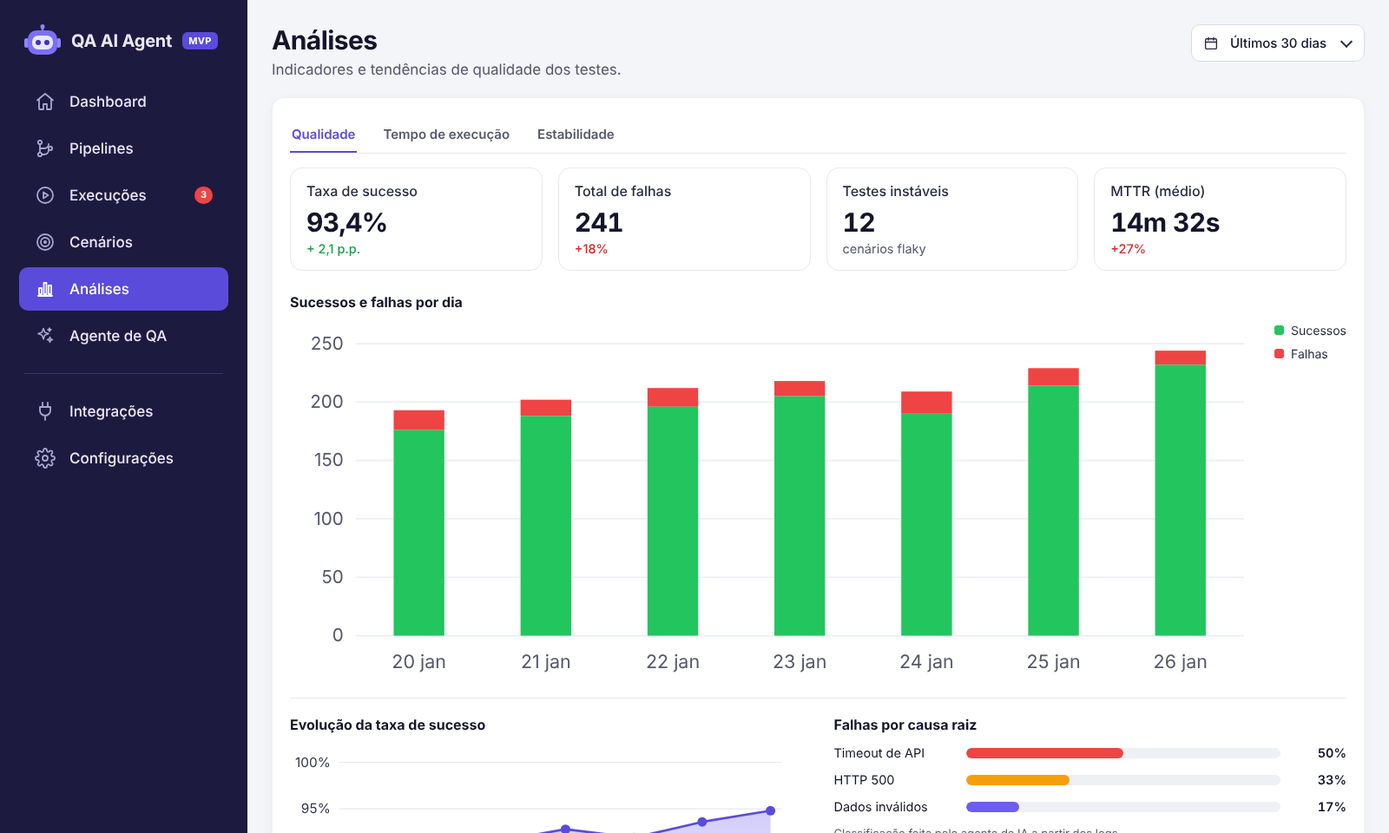
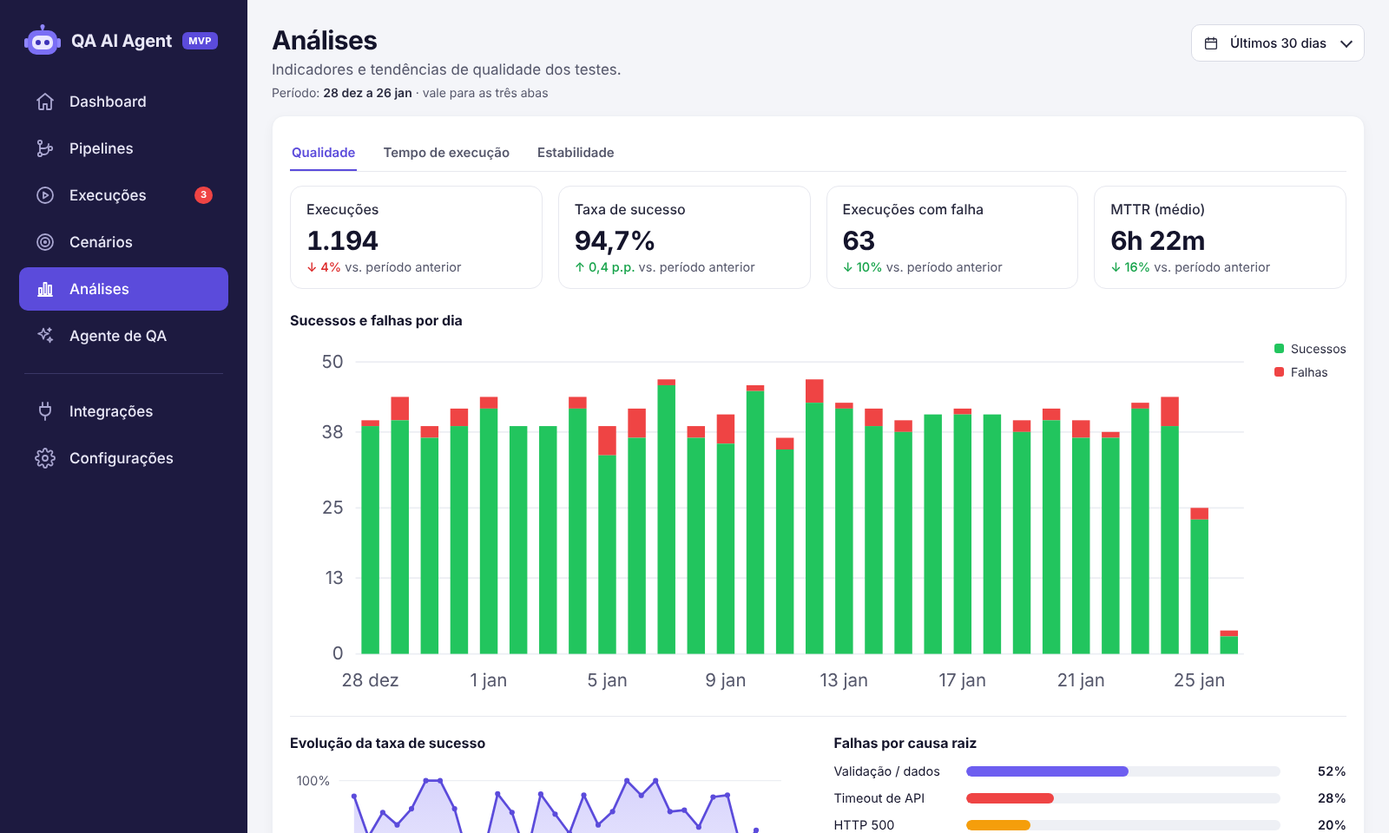
Filtro de período funcional em Análises (calculado das execuções) e Dashboard fixo em 7 dias
- Análises recalcula Qualidade, Tempo e Estabilidade pelo período (7/15/30/90 dias) e compara com o período anterior
- Dashboard calculado dos últimos 7 dias, sem filtro próprio
- Histórico de exemplo de 6 meses; paginação compacta em Execuções

Claude-Session: https://claude.ai/code/session_01M8xYCGHtLhHzJiE5R54dVi

diff --git a/index.html b/index.html
@@ -167,6 +167,10 @@ a{color:var(--primary);font-weight:600;text-decoration:none}a:hover{text-decorat
 .jst.ok{color:var(--fg-2);font-weight:500}.jst.wip{color:#b4540a}.jst.off{color:var(--muted)}
 #v-pipelines .pill.pass,#v-cenarios .pill.pass,#v-execucoes .pill.pass,#v-detalhe td .pill.pass{background:none;padding-left:0;color:var(--green-ink);font-weight:500}
 #v-pipelines .pill.pass::before,#v-cenarios .pill.pass::before,#v-execucoes .pill.pass::before,#v-detalhe td .pill.pass::before{content:"";display:inline-block;width:7px;height:7px;border-radius:50%;background:var(--green-2);margin-right:7px;vertical-align:1px}
+.period-note{display:inline-flex;align-items:center;gap:8px;font-size:15px;font-weight:500;color:var(--muted);padding:10px 4px;text-decoration:none}
+.period-note:hover{color:var(--primary);text-decoration:none}
+.a-range{margin:0 0 18px;color:var(--muted);font-size:14px}.a-range b{color:var(--fg-2);font-weight:600}
+.pager .gap{align-self:center;color:var(--muted);padding:0 2px}
 .chart{width:100%;height:auto;display:block}
 .donut-wrap{display:flex;align-items:center;gap:22px;padding-top:12px;flex-wrap:wrap}
 .donut-wrap svg{flex:none}
@@ -507,10 +511,7 @@ tr.is-live td{background:var(--primary-softer)}
       <header class="ph">
         <div><h1>Olá, QA! 👋</h1><p>Acompanhe a qualidade das suas pipelines e obtenha análises com o agente de IA.</p></div>
         <div class="top-actions">
-          <div class="sel cal big">
-            <svg class="ico-cal" width="20" height="20" viewBox="0 0 24 24" fill="none" stroke="#2a2b3f" stroke-width="1.8" stroke-linecap="round"><rect x="3.5" y="5" width="17" height="15.5" rx="2"/><path d="M3.5 10h17M8 3v4M16 3v4"/></svg>
-            <select id="period" aria-label="Período"><option value="7">Últimos 7 dias</option><option value="30">Últimos 30 dias</option><option value="90">Últimos 90 dias</option></select>
-          </div>
+          <a class="period-note" href="#analises" title="Para outros períodos, use Análises"><svg width="16" height="16" viewBox="0 0 24 24" fill="none" stroke="currentColor" stroke-width="1.8" stroke-linecap="round" aria-hidden="true"><rect x="3.5" y="5" width="17" height="15.5" rx="2"/><path d="M3.5 10h17M8 3v4M16 3v4"/></svg>Últimos 7 dias</a>
           <button class="avatar" aria-label="Perfil" data-toast="Perfil: QA"><svg width="26" height="26" viewBox="0 0 24 24" fill="none" stroke="#2a2b3f" stroke-width="1.8"><circle cx="12" cy="8" r="4"/><path d="M4 21c1-4 4.5-6 8-6s7 2 8 6"/></svg></button>
         </div>
       </header>
@@ -603,8 +604,9 @@ tr.is-live td{background:var(--primary-softer)}
 
     <!-- 6. ANÁLISES -->
     <section class="view" id="v-analises" hidden>
-      <header class="ph"><div><h1>Análises</h1><p>Indicadores e tendências de qualidade dos testes.</p></div>
-        <div class="sel cal"><svg class="ico-cal" width="18" height="18" viewBox="0 0 24 24" fill="none" stroke="#2a2b3f" stroke-width="1.8" stroke-linecap="round"><rect x="3.5" y="5" width="17" height="15.5" rx="2"/><path d="M3.5 10h17M8 3v4M16 3v4"/></svg><select id="aPeriod" aria-label="Período"><option value="7">Últimos 7 dias</option><option value="30" selected>Últimos 30 dias</option><option value="90">Últimos 90 dias</option></select></div></header>
+      <header class="ph" style="margin-bottom:8px"><div><h1>Análises</h1><p>Indicadores e tendências de qualidade dos testes.</p></div>
+        <div class="sel cal"><svg class="ico-cal" width="18" height="18" viewBox="0 0 24 24" fill="none" stroke="#2a2b3f" stroke-width="1.8" stroke-linecap="round"><rect x="3.5" y="5" width="17" height="15.5" rx="2"/><path d="M3.5 10h17M8 3v4M16 3v4"/></svg><select id="aPeriod" aria-label="Período"><option value="7">Últimos 7 dias</option><option value="15">Últimos 15 dias</option><option value="30" selected>Últimos 30 dias</option><option value="90">Últimos 90 dias</option></select></div></header>
+      <p class="a-range">Período: <b id="aRange"></b> · vale para as três abas</p>
       <div class="card card-pad">
         <div class="tabs" id="aTabs"><button data-t="geral" class="on">Qualidade</button><button data-t="tempo">Tempo de execução</button><button data-t="estab">Estabilidade</button></div>
         <div id="aBody"></div>
@@ -736,8 +738,15 @@ let RUNS=[
  {id:10428,p:'Checkout',s:'Falha',ok:11,t:15,d:542,at:new Date(2026,0,25,18,20)},
 ];
 (function gen(){let seed=7,rnd=()=>(seed=(seed*16807)%2147483647)/2147483647;let at=new Date(2026,0,25,17,40);
-  for(let id=10427;id>=10383;id--){const p=PIPES[Math.floor(rnd()*PIPES.length)];const fail=rnd()*100>p.rate+ (p.name==='Checkout'?-4:0);const t=p.scen;const ok=fail?t-1-Math.floor(rnd()*3):t;
-    RUNS.push({id,p:p.name,s:fail?'Falha':'Sucesso',ok,t,d:Math.round(p.dur*(.9+rnd()*.25)),at:new Date(at)});at=new Date(at-((40+rnd()*260)*60000));}})();
+  const stop=new Date(BASE.getTime()-184*864e5);
+  for(let id=10427;at>stop;id--){
+    const p=PIPES[Math.floor(rnd()*PIPES.length)],age=(BASE-at)/864e5,h=at.getHours(),wd=at.getDay()%6!==0;
+    const bias=(p.name==='Checkout'?4:0)+age/180*4+(wd&&h>=10&&h<=12?5:0);
+    const fail=rnd()*100>p.rate-bias;const t=p.scen;const ok=fail?t-1-Math.floor(rnd()*3):t;
+    RUNS.push({id,p:p.name,s:fail?'Falha':'Sucesso',ok,t,d:Math.round(p.dur*(.9+rnd()*.25)),at:new Date(at)});
+    at=new Date(at-((6+rnd()*30)*60000));
+    if(at.getHours()<7){at.setDate(at.getDate()-1);at.setHours(21,Math.floor(rnd()*50),0,0)}
+  }})();
 const grpOf=n=>(PIPES.find(p=>p.name===n)||{group:'—'}).group;
 
 let SCENS=store.get('scens',null)||[
@@ -783,29 +792,41 @@ function runRow(r){
   <td><button class="btn-out" data-go="exec-${r.id}">Ver detalhes</button></td></tr>`;
 }
 const pill=s=>`<span class="pill ${s==='Falha'?'fail':s==='Executando'?'run':['Inativo','Pendente','Cancelada'].includes(s)?'off':'pass'}">${s==='Executando'?'<span class="live-dot"></span> ':''}${s}</span>`;
+function dashData(){
+  const runs=runsIn(7),prev=runsIn(7,1),n=runs.length,ok=runs.filter(r=>r.s==='Sucesso').length,fail=n-ok;
+  const avg=n?runs.reduce((a,r)=>a+r.d,0)/n:0,pavg=prev.length?prev.reduce((a,r)=>a+r.d,0)/prev.length:null;
+  const byP={};runs.filter(r=>r.s==='Falha').forEach(r=>byP[r.p]=(byP[r.p]||0)+1);
+  const top=Object.entries(byP).sort((a,b)=>b[1]-a[1]),main=top.slice(0,3),rest=top.slice(3).reduce((a,x)=>a+x[1],0);
+  const names=main.map(x=>x[0]).concat(rest?['Outros']:[]),counts=main.map(x=>x[1]).concat(rest?[rest]:[]);
+  const split=counts.map(c=>fail?Math.round(c/fail*100):0);
+  const bs=buckets(runs,7);let last=100;const vals=bs.map(b=>b.rate===null?last:(last=Math.max(80,+b.rate.toFixed(1))));
+  return {exec:n.toLocaleString('pt-BR'),execDh:deltaHtml(n,prev.length||null,'%',false),succ:ok.toLocaleString('pt-BR'),rate:(n?ok/n*100:0).toFixed(1).replace('.',','),
+    fail:fail.toLocaleString('pt-BR'),failR:(n?fail/n*100:0).toFixed(1).replace('.',','),dur:fmtDur(Math.round(avg)),durDh:deltaHtml(avg,pavg,'%',true),
+    labels:bs.map(b=>b.label),vals,names,counts,split};
+}
 function renderDashboard(){
-  const P=PERIODS[period];
+  const P=dashData();
   $('#kpis').innerHTML=`
-  <div class="card kpi"><div class="kpi-h">${svg('<circle cx="12" cy="12" r="9.5"/><path d="M10 8.3v7.4l5.8-3.7z"/>',28,'#2a2b3f',1.6)}Execuções</div><div class="kpi-v">${P.exec}</div><div class="kpi-s"><span class="ok">↑ ${P.execD}</span> vs. período anterior</div></div>
+  <div class="card kpi"><div class="kpi-h">${svg('<circle cx="12" cy="12" r="9.5"/><path d="M10 8.3v7.4l5.8-3.7z"/>',28,'#2a2b3f',1.6)}Execuções</div><div class="kpi-v">${P.exec}</div><div class="kpi-s">${P.execDh}</div></div>
   <div class="card kpi"><div class="kpi-h">${svg('<circle cx="12" cy="12" r="9.5"/><path d="m7.5 12.3 3 3 6-6.3"/>',28,'#16a34a')}Sucessos</div><div class="kpi-v">${P.succ}</div><div class="kpi-s ok">${P.rate}% de sucesso</div></div>
   <div class="card kpi"><div class="kpi-h">${svg('<circle cx="12" cy="12" r="9.5"/><path d="m8.5 8.5 7 7m0-7-7 7"/>',28,'#dc2626')}Falhas</div><div class="kpi-v">${P.fail}</div><div class="kpi-s bad">${P.failR}% de falhas</div></div>
-  <div class="card kpi"><div class="kpi-h">${svg('<circle cx="12" cy="13.5" r="8"/><path d="M12 9.5v4.2l2.6 1.6M9.5 2.5h5M12 2.5v3M19 6l1.3-1.3"/>',28,'#2a2b3f',1.7)}Duração média<span class="kpi-tag">por plataforma</span></div>${durByTech()}<div class="kt-foot" title="Média de todas as execuções do período, sem separar plataforma">Geral do período <b>${P.dur}</b><span class="ok">↓ ${P.durD}</span></div></div>`;
+  <div class="card kpi"><div class="kpi-h">${svg('<circle cx="12" cy="13.5" r="8"/><path d="M12 9.5v4.2l2.6 1.6M9.5 2.5h5M12 2.5v3M19 6l1.3-1.3"/>',28,'#2a2b3f',1.7)}Duração média<span class="kpi-tag">por plataforma</span></div>${durByTech()}<div class="kt-foot" title="Média de todas as execuções do período, sem separar plataforma">Geral do período <b>${P.dur}</b><span>${P.durDh}</span></div></div>`;
   drawLine('#lineChart',P.labels,P.vals);
-  const cols=['#6d5ef0','#3b82f6','#f59e0b','#22c55e'],names=['Checkout','Pagamento','Cadastro','Outros'];
-  const total=parseInt(String(P.fail).replace(/\./g,''),10)||0,counts=P.split.map(v=>Math.round(v/100*total));
+  const cols=['#6d5ef0','#3b82f6','#f59e0b','#22c55e'],names=P.names,counts=P.counts;
   const R=68,C=2*Math.PI*R,GAP=3,cx=84;let off=0,s='';
   P.split.forEach((v,i)=>{const len=Math.max(0,v/100*C-GAP);s+=`<circle class="seg" data-i="${i}" cx="${cx}" cy="${cx}" r="${R}" fill="none" stroke="${cols[i]}" stroke-width="18" stroke-dasharray="${len} ${C-len}" stroke-dashoffset="${-off}" transform="rotate(-90 ${cx} ${cx})"><title>${names[i]}: ${counts[i]} falhas (${v}%)</title></circle>`;off+=v/100*C;});
   s+=`<text x="${cx}" y="${cx+4}" text-anchor="middle" font-size="34" font-weight="700" fill="#14142b" style="font-variant-numeric:tabular-nums">${P.fail}</text><text x="${cx}" y="${cx+26}" text-anchor="middle" font-size="14" fill="#55576b">falhas</text>`;
   $('#donut').innerHTML=s;
-  const mx=Math.max(...P.split);
+  const mx=Math.max(1,...P.split);
   $('#legend').innerHTML=P.split.map((v,i)=>`<li><button data-ask="${names[i]}" data-i="${i}" title="Analisar ${names[i]} com a IA"><span class="dot" style="background:${cols[i]}"></span><span class="nm">${names[i]}</span><span class="ct">${counts[i]}</span><span class="pct">${v}%</span><span class="lg-bar"><i style="width:${v/mx*100}%;background:${cols[i]}"></i></span></button></li>`).join('');
   $('#fpTotal').textContent=`${P.failR}% das execuções`;
-  $('#fpNote').innerHTML=`<b>${names[0]}</b> concentra ${P.split[0]}% das falhas (${counts[0]} de ${P.fail}).`;
+  $('#fpNote').innerHTML=names.length?`<b>${esc(names[0])}</b> concentra ${P.split[0]}% das falhas (${counts[0]} de ${P.fail}).`:'Nenhuma falha nos últimos 7 dias.';
+  $('.fp-foot [data-ask]')?.setAttribute('data-ask',names[0]||'Checkout');
   $('#lastRuns').innerHTML=RUNS.filter(r=>r.s!=='Executando').slice(0,4).map(runRow).join('');
 }
 function durByTech(){
   // Média própria de cada plataforma: soma das durações das execuções concluídas dela ÷ nº de execuções dela (no período do filtro)
-  const lim=new Date(BASE-(+period)*864e5);
+  const [lim]=periodRange(+period);
   const rows=TECHS.map(t=>{const names=PIPES.filter(p=>p.tech===t).map(p=>p.name);
     const runs=RUNS.filter(r=>names.includes(r.p)&&(r.s==='Sucesso'||r.s==='Falha')&&r.at>=lim);
     const sum=runs.reduce((a,r)=>a+r.d,0);return {t,n:runs.length,sum,v:runs.length?Math.round(sum/runs.length):0}}).filter(r=>r.n);
@@ -823,7 +844,7 @@ function drawLine(sel,labels,vals){
 }
 $('#legend').addEventListener('mouseover',e=>{const b=e.target.closest('[data-i]');if(!b)return;const d=$('#donut');d.classList.add('hl');d.querySelectorAll('.seg').forEach(c=>c.classList.toggle('on',c.dataset.i===b.dataset.i))});
 $('#legend').addEventListener('mouseleave',()=>$('#donut').classList.remove('hl'));
-$('#period').addEventListener('change',e=>{period=e.target.value;renderDashboard()});
+
 
 /* ---------- 2. Pipelines ---------- */
 function fillSelect(sel,first,opts){const el=$(sel),v=el.value;el.innerHTML=`<option value="">${first}</option>`+opts.map(o=>`<option>${esc(o)}</option>`).join('');el.value=opts.includes(v)?v:''}
@@ -876,12 +897,13 @@ let page=1;const PER=10;
 function renderExecs(){
   fillSelect('#ePipe','Todas as pipelines',PIPES.map(p=>p.name));
   const q=$('#eSearch').value.toLowerCase().replace('#',''),pp=$('#ePipe').value,st=$('#eStatus').value,days=+$('#eDays').value;
-  const lim=new Date(BASE-days*864e5);
+  const [lim]=periodRange(days||1);
   const list=RUNS.filter(r=>(String(r.id).includes(q)||r.p.toLowerCase().includes(q))&&(!pp||r.p===pp)&&(!st||r.s===st)&&(!days||r.at>=lim));
   const pages=Math.max(1,Math.ceil(list.length/PER));page=Math.min(page,pages);
   $('#execRows').innerHTML=list.slice((page-1)*PER,page*PER).map(r=>`<tr class="click" data-go="exec-${r.id}"><td><a href="#exec-${r.id}">#${r.id}</a></td><td>${esc(r.p)}</td><td>${pill(r.s)}</td><td>${r.ok} / ${r.t}</td><td>${r.s==='Executando'?'—':fmtDur(r.d)}</td><td>${r.s==='Executando'?'agora':fmtDate(r.at)}</td></tr>`).join('')||'<tr><td colspan="6" class="empty">Nenhuma execução encontrada.</td></tr>';
   let pg=`<button data-page="${page-1}" ${page===1?'disabled':''} aria-label="Página anterior">‹</button>`;
-  for(let i=1;i<=pages;i++)pg+=`<button data-page="${i}" class="${i===page?'on':''}">${i}</button>`;
+  const want=[...new Set([1,page-1,page,page+1,pages])].filter(i=>i>=1&&i<=pages).sort((a,b)=>a-b);let prev=0;
+  want.forEach(i=>{if(i-prev>1)pg+='<span class="gap">…</span>';pg+=`<button data-page="${i}" class="${i===page?'on':''}">${i}</button>`;prev=i});
   $('#pager').innerHTML=pg+`<button data-page="${page+1}" ${page===pages?'disabled':''} aria-label="Próxima página">›</button>`;
 }
 ['#eSearch','#ePipe','#eStatus','#eDays'].forEach(s=>$(s).addEventListener('input',()=>{page=1;renderExecs()}));
@@ -987,46 +1009,101 @@ $('#v-cenarios').addEventListener('click',e=>{if(e.target.id!=='jiraEdit')return
 
 /* ---------- 6. Análises ---------- */
 let aTab='geral';
+/* Métricas de Análises calculadas a partir das execuções do período escolhido */
+const DAY=864e5;
+function periodRange(days,back=0){const e0=new Date(BASE.getFullYear(),BASE.getMonth(),BASE.getDate()+1),end=new Date(e0-back*days*DAY),start=new Date(end-days*DAY);return [start,end]}
+function runsIn(days,back=0){const [a,b]=periodRange(days,back);return RUNS.filter(r=>(r.s==='Sucesso'||r.s==='Falha')&&r.at>=a&&r.at<b)}
+function failCause(n){if(/Timeout/.test(n))return 'Timeout de API';if(/Confirmar|500/.test(n))return 'HTTP 500';let h=0;for(const c of n)h=(h*31+c.charCodeAt(0))>>>0;return ['Timeout de API','HTTP 500','Validação / dados','Validação / dados'][h%4]}
+function scenarioStats(runs){
+  const m=new Map();
+  runs.forEach(r=>suiteFor(r).forEach(x=>{const k=r.p+'|'+x.n;const o=m.get(k)||{p:r.p,n:x.n,runs:0,fails:0};o.runs++;if(x.f)o.fails++;m.set(k,o)}));
+  return [...m.values()];
+}
+function mttr(runs){
+  // tempo médio entre uma execução com falha e a próxima execução com sucesso do mesmo componente
+  const asc=[...runs].sort((a,b)=>a.at-b.at),open={},gaps=[];
+  asc.forEach(r=>{if(r.s==='Falha'){if(!open[r.p])open[r.p]=r.at}else if(open[r.p]){gaps.push((r.at-open[r.p])/1000);delete open[r.p]}});
+  return gaps.length?gaps.reduce((a,b)=>a+b,0)/gaps.length:0;
+}
+function metrics(runs){
+  const ok=runs.filter(r=>r.s==='Sucesso').length,fail=runs.length-ok;
+  const sc=scenarioStats(runs),flaky=sc.filter(x=>x.fails>0&&x.fails<x.runs);
+  return {n:runs.length,ok,fail,rate:runs.length?ok/runs.length*100:0,flaky,sc,mttr:mttr(runs)};
+}
+const fmtLong=s=>{s=Math.round(s);const d=Math.floor(s/86400),h=Math.floor(s%86400/3600),m=Math.floor(s%3600/60);return d?`${d}d ${h}h`:h?`${h}h ${String(m).padStart(2,'0')}m`:fmtDur(s)};
+function buckets(runs,days){
+  // 7 e 30 dias: um ponto por dia · 90 dias: um ponto por semana
+  const step=days>30?7:1,n=Math.ceil(days/step),[start,end]=periodRange(days),out=[];
+  for(let i=0;i<n;i++){const b=new Date(end.getTime()-(n-1-i)*step*DAY),a=new Date(Math.max(start,b.getTime()-step*DAY));
+    const rs=runs.filter(r=>r.at>=a&&r.at<b),ok=rs.filter(r=>r.s==='Sucesso').length;
+    out.push({label:`${a.getDate()} ${['jan','fev','mar','abr','mai','jun','jul','ago','set','out','nov','dez'][a.getMonth()]}`,ok,ko:rs.length-ok,rate:rs.length?ok/rs.length*100:null});}
+  return out;
+}
+function barChart(bs){
+  const l=44,r=640,t=14,b=210,mx=Math.max(4,...bs.map(x=>x.ok+x.ko)),u=mx>200?100:mx>80?50:mx>20?10:4,max=Math.ceil(mx/u)*u,y=v=>b-v/max*(b-t),step=(r-l)/bs.length,bw=Math.max(4,Math.min(34,step*.6));
+  const every=Math.ceil(bs.length/8);let g='';
+  [0,.25,.5,.75,1].forEach(f=>{const v=Math.round(max*f);g+=`<line x1="${l}" x2="${r}" y1="${y(v)}" y2="${y(v)}" stroke="#eceef3"/><text x="${l-8}" y="${y(v)+4}" text-anchor="end" font-size="12" fill="#55576b">${v}</text>`});
+  bs.forEach((x,i)=>{const cx=l+step*i+(step-bw)/2;
+    g+=`<rect x="${cx}" y="${y(x.ok+x.ko)}" width="${bw}" height="${y(x.ok)-y(x.ok+x.ko)}" fill="#ef4444"><title>${x.label}: ${x.ko} falhas</title></rect><rect x="${cx}" y="${y(x.ok)}" width="${bw}" height="${b-y(x.ok)}" fill="#22c55e"><title>${x.label}: ${x.ok} sucessos</title></rect>`;
+    if(i%every===0)g+=`<text x="${cx+bw/2}" y="${b+22}" text-anchor="middle" font-size="12" fill="#55576b">${x.label}</text>`});
+  return g;
+}
+function lineChart(sel,bs){
+  const pts=bs.filter(x=>x.rate!==null);if(!pts.length){$(sel).innerHTML='';return}
+  const lo=Math.max(0,Math.floor(Math.min(...pts.map(x=>x.rate))/5)*5-5);
+  const l=46,r=460,t=16,b=190,x=i=>l+14+i*((r-l-24)/Math.max(1,bs.length-1)),y=v=>b-(v-lo)/(100-lo)*(b-t),every=Math.ceil(bs.length/7);
+  let g=`<defs><linearGradient id="lgA" x1="0" y1="0" x2="0" y2="1"><stop offset="0" stop-color="#7b6ff5" stop-opacity=".3"/><stop offset="1" stop-color="#7b6ff5" stop-opacity=".04"/></linearGradient></defs>`;
+  for(let v=lo;v<=100;v+=Math.max(5,Math.round((100-lo)/4/5)*5))g+=`<line x1="${l}" x2="${r}" y1="${y(v)}" y2="${y(v)}" stroke="#eceef3"/><text x="${l-8}" y="${y(v)+4}" text-anchor="end" font-size="12" fill="#55576b">${v}%</text>`;
+  const P=bs.map((d,i)=>d.rate===null?null:[x(i),y(d.rate),d]).filter(Boolean),path=P.map((p,i)=>(i?'L':'M')+p[0].toFixed(1)+','+p[1].toFixed(1)).join(' ');
+  g+=`<path d="${path} L${P.at(-1)[0]},${b} L${P[0][0]},${b} Z" fill="url(#lgA)"/><path d="${path}" fill="none" stroke="#5b4bdb" stroke-width="2.2" stroke-linejoin="round"/>`;
+  P.forEach(p=>{g+=`<circle cx="${p[0]}" cy="${p[1]}" r="${bs.length>14?2.5:4}" fill="#5b4bdb"><title>${p[2].label}: ${pct(p[2].rate)}</title></circle>`});
+  bs.forEach((d,i)=>{if(i%every===0)g+=`<text x="${x(i)}" y="${b+24}" text-anchor="middle" font-size="12" fill="#55576b">${d.label}</text>`});
+  $(sel).innerHTML=g;
+}
+const deltaHtml=(cur,prev,unit,goodDown)=>{if(prev===null||prev===undefined||!isFinite(prev))return '<span class="muted">sem período anterior</span>';const d=cur-prev;if(Math.abs(d)<1e-9)return '<span class="muted">igual ao período anterior</span>';
+  const up=d>0,good=goodDown?!up:up;return `<span class="${good?'ok':'bad'}">${up?'↑':'↓'} ${unit==='pp'?Math.abs(d).toFixed(1).replace('.',',')+' p.p.':unit==='%'?Math.abs(Math.round(prev?d/prev*100:0))+'%':Math.abs(Math.round(d))}</span> vs. período anterior`};
+
 function renderAnalises(){
   if(!['geral','tempo','estab'].includes(aTab))aTab='geral';
-  const A=AN[$('#aPeriod').value],labels=PERIODS[7].labels;
   $$('#aTabs button').forEach(b=>b.classList.toggle('on',b.dataset.t===aTab));
+  const days=+$('#aPeriod').value,label=$('#aPeriod').selectedOptions[0].textContent.toLowerCase();
+  $('#aRange').textContent=(()=>{const [a,b]=periodRange(days);return `${fmtDate(a).split(',')[0]} a ${fmtDate(new Date(b-1)).split(',')[0]}`})();
   if(aTab==='tempo')return renderTempo();
-  const kpis=`<div class="kpis k4" style="margin-bottom:22px">
-   <div class="card kpi"><div class="kpi-h">Taxa de sucesso</div><div class="kpi-v">${A.rate}</div><div class="kpi-s ok">+ ${A.rateD.replace('+','')}</div></div>
-   <div class="card kpi"><div class="kpi-h">Total de falhas</div><div class="kpi-v">${A.fails}</div><div class="kpi-s ${A.failsD.startsWith('+')?'bad':'ok'}">${A.failsD}</div></div>
-   <div class="card kpi"><div class="kpi-h">Testes instáveis</div><div class="kpi-v">${A.flaky}</div><div class="kpi-s">cenários flaky</div></div>
-   <div class="card kpi"><div class="kpi-h">MTTR (médio)</div><div class="kpi-v">${A.mttr}</div><div class="kpi-s ${A.mttrD.startsWith('+')?'bad':'ok'}">${A.mttrD}</div></div></div>`;
+  const runs=runsIn(days),M=metrics(runs),prevRuns=runsIn(days,1),PM=prevRuns.length?metrics(prevRuns):null;
   if(aTab==='geral'){
-    // Qualidade: o que aconteceu no período
-    const l=44,r=640,t=14,b=210,max=250,y=v=>b-v/max*(b-t),bw=34,step=(r-l)/7;
-    let g='';[0,50,100,150,200,250].forEach(v=>{g+=`<line x1="${l}" x2="${r}" y1="${y(v)}" y2="${y(v)}" stroke="#eceef3"/><text x="${l-8}" y="${y(v)+4}" text-anchor="end" font-size="12" fill="#55576b">${v}</text>`});
-    A.ok.forEach((v,i)=>{const x=l+step*i+(step-bw)/2,k=A.ko[i];
-      g+=`<rect x="${x}" y="${y(v+k)}" width="${bw}" height="${y(v)-y(v+k)}" fill="#ef4444"><title>${labels[i]}: ${k} falhas</title></rect><rect x="${x}" y="${y(v)}" width="${bw}" height="${b-y(v)}" fill="#22c55e"><title>${labels[i]}: ${v} sucessos</title></rect><text x="${x+bw/2}" y="${b+22}" text-anchor="middle" font-size="12.5" fill="#55576b">${labels[i]}</text>`});
-    const days=['Seg','Ter','Qua','Qui','Sex','Sáb','Dom'],hours=[8,9,10,11,12,13,14,15,16,17,18,19,20];
-    const heat=days.map((d,di)=>hours.map(h=>{const peak=Math.max(0,6-Math.abs(h-11)*2.2);const base=di>4?0.3:1;return Math.max(0,Math.round((peak+((di*7+h*3)%4)*.6)*base))}));
-    const hmax=Math.max(...heat.flat()),cell=v=>v===0?'#f1f2f6':`rgba(220,38,38,${(.15+.85*v/hmax).toFixed(2)})`;
-    $('#aBody').innerHTML=kpis+`
-     <div class="an-sec"><h3>Sucessos e falhas por dia</h3><div class="chart-row"><svg class="chart" viewBox="0 0 650 240" role="img" aria-label="Sucessos e falhas por dia">${g}</svg><div class="chart-legend"><span><i style="background:#22c55e"></i>Sucessos</span><span><i style="background:#ef4444"></i>Falhas</span></div></div></div>
+    const bs=buckets(runs,days);
+    const fails=M.sc.reduce((a,x)=>{if(x.fails){const c=failCause(x.n);a[c]=(a[c]||0)+x.fails}return a},{}),ft=Object.values(fails).reduce((a,b)=>a+b,0)||1;
+    const causes=Object.entries(fails).sort((a,b)=>b[1]-a[1]),cc={'Timeout de API':'#ef4444','HTTP 500':'#f59e0b','Validação / dados':'#6d5ef0'};
+    const dnames=['Dom','Seg','Ter','Qua','Qui','Sex','Sáb'],order=[1,2,3,4,5,6,0],hours=[...Array(15)].map((_,i)=>i+7);
+    const heat=order.map(d=>hours.map(h=>runs.filter(r=>r.s==='Falha'&&r.at.getDay()===d&&r.at.getHours()===h).length)),hmax=Math.max(1,...heat.flat());
+    const cell=v=>v===0?'#f1f2f6':`rgba(220,38,38,${(.2+.8*v/hmax).toFixed(2)})`;
+    let peak=[0,0,0];heat.forEach((row,di)=>row.forEach((v,hi)=>{if(v>peak[0])peak=[v,di,hi]}));
+    $('#aBody').innerHTML=`<div class="kpis k4" style="margin-bottom:22px">
+      <div class="card kpi"><div class="kpi-h">Execuções</div><div class="kpi-v">${M.n.toLocaleString('pt-BR')}</div><div class="kpi-s">${deltaHtml(M.n,PM?PM.n:null,'%',false)}</div></div>
+      <div class="card kpi"><div class="kpi-h">Taxa de sucesso</div><div class="kpi-v">${pct(M.rate)}</div><div class="kpi-s">${deltaHtml(M.rate,PM?PM.rate:null,'pp',false)}</div></div>
+      <div class="card kpi"><div class="kpi-h">Execuções com falha</div><div class="kpi-v">${M.fail}</div><div class="kpi-s">${deltaHtml(M.fail,PM?PM.fail:null,'%',true)}</div></div>
+      <div class="card kpi"><div class="kpi-h">MTTR (médio)</div><div class="kpi-v">${M.mttr?fmtLong(M.mttr):'—'}</div><div class="kpi-s">${M.mttr&&PM&&PM.mttr?deltaHtml(M.mttr,PM.mttr,'%',true):'da falha até a próxima execução com sucesso'}</div></div></div>
+     ${M.n?`<div class="an-sec"><h3>Sucessos e falhas ${days>30?'por semana':'por dia'}</h3><div class="chart-row"><svg class="chart" viewBox="0 0 650 240" role="img" aria-label="Sucessos e falhas no período">${barChart(bs)}</svg><div class="chart-legend"><span><i style="background:#22c55e"></i>Sucessos</span><span><i style="background:#ef4444"></i>Falhas</span></div></div></div>
      <div class="an-split">
-       <div class="an-sec"><h3>Evolução da taxa de sucesso</h3><svg id="aLine" class="chart" viewBox="0 0 480 230" role="img" aria-label="Taxa de sucesso por dia"></svg></div>
-       <div class="an-sec"><h3>Falhas por causa raiz</h3><div class="hbar">${[['Timeout de API',50,'#ef4444'],['HTTP 500',33,'#f59e0b'],['Dados inválidos',17,'#6d5ef0']].map(x=>`<div class="r"><span>${x[0]}</span><div class="t"><span style="width:${x[1]}%;background:${x[2]}"></span></div><span class="v">${x[1]}%</span></div>`).join('')}</div><p class="an-note">Classificação feita pelo agente de IA a partir dos logs.</p></div>
+       <div class="an-sec"><h3>Evolução da taxa de sucesso</h3><svg id="aLine" class="chart" viewBox="0 0 480 230" role="img" aria-label="Taxa de sucesso no período"></svg></div>
+       <div class="an-sec"><h3>Falhas por causa raiz</h3>${causes.length?`<div class="hbar">${causes.map(([c,v])=>`<div class="r"><span>${c}</span><div class="t"><span style="width:${v/ft*100}%;background:${cc[c]}"></span></div><span class="v">${Math.round(v/ft*100)}%</span></div>`).join('')}</div><p class="an-note">${ft} cenários com falha no período, agrupados pela mensagem de erro do log.</p>`:'<p class="an-note">Nenhuma falha no período.</p>'}</div>
      </div>
      <div class="an-sec"><h3>Concentração de falhas por horário</h3>
        <div class="heat-wrap"><div class="heat" style="grid-template-columns:40px repeat(${hours.length},minmax(22px,1fr))"><span></span>${hours.map(h=>`<span class="hl">${h}h</span>`).join('')}
-       ${days.map((d,di)=>`<span class="hl dl">${d}</span>`+heat[di].map((v,hi)=>`<i style="background:${cell(v)}" title="${d} ${hours[hi]}h: ${v} falhas"></i>`).join('')).join('')}</div></div>
-       <p class="an-note">Pico entre 10h e 12h nos dias úteis.</p></div>`;
-    const P=PERIODS[$('#aPeriod').value];drawLine('#aLine',P.labels,P.vals);
+       ${order.map((d,di)=>`<span class="hl dl">${dnames[d]}</span>`+heat[di].map((v,hi)=>`<i style="background:${cell(v)}" title="${dnames[d]} ${hours[hi]}h: ${v} execuç${v===1?'ão':'ões'} com falha"></i>`).join('')).join('')}</div></div>
+       <p class="an-note">${peak[0]?`Maior concentração: ${dnames[order[peak[1]]]} às ${hours[peak[2]]}h (${peak[0]} falha${peak[0]===1?'':'s'}).`:'Nenhuma falha no período.'}</p></div>`
+     :`<p class="empty">Nenhuma execução concluída ${label}.</p>`}`;
+    if(M.n)lineChart('#aLine',bs);
   }else{
-    // Estabilidade: onde e o que falha
-    const per=PIPES.map(p=>({n:p.name,rate:p.rate,f:RUNS.filter(r=>r.p===p.name&&r.s==='Falha').length})).sort((a,b)=>b.f-a.f),mx=Math.max(1,...per.map(x=>x.f));
-    const fl=[['CT-004','Timeout na API de pagamento','Pagamento',6,12.0],['CT-011','Confirmar pedido','Checkout',4,8.0],['CT-003','Pagamento com cartão inválido','Pagamento',3,6.1],['CT-008','Estorno parcial','Pagamento',3,5.2],['CT-005','Validação de carrinho vazio','Checkout',2,4.1],['CT-010','Validar CPF duplicado','Cadastro',2,3.4]];
-    const withF=per.filter(x=>x.f),below=[...PIPES].filter(p=>p.rate<CFG.goal).sort((a,b)=>a.rate-b.rate),okN=PIPES.length-below.length;
+    const per=PIPES.map(p=>{const rs=runs.filter(r=>r.p===p.name),ok=rs.filter(r=>r.s==='Sucesso').length;return {n:p.name,runs:rs.length,f:rs.length-ok,rate:rs.length?ok/rs.length*100:null}});
+    const withF=per.filter(x=>x.f).sort((a,b)=>b.f-a.f),mx=Math.max(1,...withF.map(x=>x.f));
+    const measured=per.filter(x=>x.rate!==null),below=measured.filter(x=>x.rate<CFG.goal).sort((a,b)=>a.rate-b.rate);
+    const fl=M.flaky.map(x=>({...x,r:x.fails/x.runs*100})).sort((a,b)=>b.r-a.r).slice(0,8);
     $('#aBody').innerHTML=`<div class="an-split" style="border-top:0">
-      <div class="an-sec"><h3>Falhas por componente</h3><div class="hbar">${withF.map(x=>`<div class="r"><span>${esc(x.n)}</span><div class="t"><span style="width:${x.f/mx*100}%;background:var(--red-2)"></span></div><span class="v">${x.f}</span></div>`).join('')||'<p class="an-note">Nenhuma falha no histórico carregado.</p>'}</div>${withF.length&&withF.length<per.length?`<p class="an-note">${per.length-withF.length} componentes sem falhas no período.</p>`:''}</div>
-      <div class="an-sec"><h3>Abaixo da meta de sucesso (${CFG.goal}%)</h3><div class="hbar">${below.map(p=>`<div class="r"><span>${esc(p.name)}</span><div class="t"><span style="width:${Math.max(4,(p.rate-85)/15*100)}%;background:${p.rate<CFG.goal?'var(--orange)':'var(--green-2)'}"></span></div><span class="v">${pct(p.rate)}</span></div>`).join('')||'<p class="an-note">Todos os componentes estão na meta.</p>'}</div>${okN?`<p class="an-note">${okN} componentes na meta ou acima. A meta é definida em Configurações.</p>`:''}</div>
+      <div class="an-sec"><h3>Falhas por componente</h3>${withF.length?`<div class="hbar">${withF.map(x=>`<div class="r"><span>${esc(x.n)}</span><div class="t"><span style="width:${x.f/mx*100}%;background:var(--red-2)"></span></div><span class="v" title="${x.f} de ${x.runs} execuções">${x.f}</span></div>`).join('')}</div>`:'<p class="an-note">Nenhuma falha no período.</p>'}${withF.length&&withF.length<per.length?`<p class="an-note">${per.length-withF.length} componentes sem falhas ${label}.</p>`:''}</div>
+      <div class="an-sec"><h3>Abaixo da meta de sucesso (${CFG.goal}%)</h3>${below.length?`<div class="hbar">${below.map(p=>`<div class="r"><span>${esc(p.n)}</span><div class="t"><span style="width:${Math.max(4,p.rate)}%;background:var(--orange)"></span></div><span class="v" title="${p.runs} execuções">${pct(p.rate)}</span></div>`).join('')}</div>`:'<p class="an-note">Todos os componentes estão na meta.</p>'}<p class="an-note">${measured.length-below.length} componentes na meta ou acima${per.length-measured.length?` · ${per.length-measured.length} sem execuções no período`:''}. A meta é definida em Configurações.</p></div>
      </div>
-     <div class="an-sec"><h3>Testes instáveis (flaky)</h3><div class="table-wrap"><table><thead><tr><th>Cenário</th><th>Componente</th><th>Falhas intermitentes</th><th>Taxa de falha</th><th></th></tr></thead><tbody>${fl.map(r=>`<tr><td><span class="key">${r[0]}</span> <b style="color:var(--fg)">${r[1]}</b></td><td>${r[2]}</td><td>${r[3]}</td><td><div class="mini"><span style="width:${r[4]/12*100}%"></span></div>${pct(r[4])}</td><td><button class="link-btn" data-ask="${r[2]}">Analisar com IA</button></td></tr>`).join('')}</tbody></table></div></div>`;
+     <div class="an-sec"><h3>Testes instáveis (flaky) <span class="muted" style="font-weight:500">· ${M.flaky.length} cenários que falharam e também passaram ${label}</span></h3>${fl.length?`<div class="table-wrap"><table><thead><tr><th>Cenário</th><th>Componente</th><th>Falhas / execuções</th><th>Taxa de falha</th><th></th></tr></thead><tbody>${fl.map(x=>{const id=(x.n.match(/CT-\d+/)||[''])[0];return `<tr><td>${id?`<span class="key">${id}</span> `:''}<b style="color:var(--fg)">${esc(x.n.replace(/^CT-\d+\s*-\s*/,''))}</b></td><td>${esc(x.p)}</td><td>${x.fails} / ${x.runs}</td><td><div class="mini"><span style="width:${Math.min(100,x.r)}%"></span></div>${pct(x.r)}</td><td><button class="link-btn" data-ask="${esc(x.p)}">Analisar com IA</button></td></tr>`}).join('')}</tbody></table></div>`:'<p class="an-note">Nenhum teste instável no período.</p>'}</div>`;
   }
 }
 
@@ -1056,7 +1133,7 @@ function renderTempo(){
   updateTempo();
 }
 function auditData(){
-  const lim=new Date(BASE-(+$('#aPeriod').value)*864e5);
+  const [lim]=periodRange(+$('#aPeriod').value);
   return PIPES.filter(p=>(!AUF.proj||p.group===AUF.proj)&&(!AUF.tech||p.tech===AUF.tech)&&(!AUF.active||p.active!==false)&&(!TF.size||TF.has(p.name)))
     .sort((a,b)=>a.group.localeCompare(b.group,'pt-BR')||a.name.localeCompare(b.name,'pt-BR'))
     .map(p=>{
@@ -1473,7 +1550,7 @@ function answer(q){
     return [`A execução <b>#${r.id}</b> de <b>${esc(r.p)}</b> falhou em ${f.length} de ${r.t} cenários:`+list(f.map(x=>`${esc(x.n)}${/Timeout/.test(x.n)?' — sem resposta da API de pagamento em 30s':/Confirmar/.test(x.n)?' — HTTP 500 em /checkout/confirm':' — status 422 inesperado'}`)),'A causa provável é instabilidade no serviço de pagamento. Verifique os logs do gateway no horário da execução e considere aumentar o timeout da chamada para 45s.']}}
   for(const k of Object.keys(KB))if(t.includes(k)){const a=KB[k];return [a.h+list(a.l),a.tip]}
   if(/dura|lent|tempo/.test(t)){const s=[...PIPES].sort((a,b)=>b.dur-a.dur).slice(0,3);return ['As pipelines mais lentas são:'+list(s.map(p=>`${esc(p.name)} – ${fmtDur(p.dur)} em média`))+`<p style="margin:12px 0 0">A duração média geral está em <b>${P.dur}</b> (${P.durD} vs. período anterior).</p>`,'Paralelize os cenários de pagamento do Checkout para economizar cerca de 2 minutos por execução.']}
-  if(/instáve|instave|flaky|intermit/.test(t))return [`Sim. Identifiquei <b>${AN[30].flaky} testes instáveis</b> nos últimos 30 dias. Os mais críticos:`+list(['CT-004 Timeout na API de pagamento – 12,0% de falha','CT-011 Confirmar pedido – 8,0% de falha','CT-003 Pagamento com cartão inválido – 6,1% de falha']),'Coloque esses cenários em quarentena até a correção, para que não bloqueiem o deploy, e acompanhe a taxa na aba Flaky Tests.'];
+  if(/instáve|instave|flaky|intermit/.test(t))return [`Sim. Identifiquei <b>${metrics(runsIn(30)).flaky.length} testes instáveis</b> nos últimos 30 dias. Os mais críticos:`+list(['CT-004 Timeout na API de pagamento – 12,0% de falha','CT-011 Confirmar pedido – 8,0% de falha','CT-003 Pagamento com cartão inválido – 6,1% de falha']),'Coloque esses cenários em quarentena até a correção, para que não bloqueiem o deploy, e acompanhe a taxa na aba Flaky Tests.'];
   if(/resum|release|geral|semana|como est|status|taxa|qualidade/.test(t))return [`Nesta semana foram <b>${P.exec}</b> execuções, com <b>${P.rate}%</b> de sucesso e <b>${P.fail}</b> falhas.`+list(['Taxa de sucesso subiu para 95,5% no último dia',`Duração média ${P.durD} vs. período anterior`,`Checkout concentra ${P.split[0]}% das falhas`]),'A release pode seguir se os timeouts de pagamento do Checkout forem resolvidos: eles respondem por metade das falhas.'];
   if(/falh|erro|quebr|por que/.test(t)){const a=KB.checkout;return [a.h+list(a.l),a.tip]}
   return ['Posso analisar falhas por pipeline, uma execução específica (ex.: #10432), duração, testes instáveis ou resumir a release. Experimente:<div class="suggest" style="margin-top:12px"><button data-suggest="Resuma a qualidade da release desta semana.">Resumo da release</button><button data-suggest="Existe algum teste instável (flaky)?">Testes instáveis</button><button data-suggest="Por que a execução #10432 falhou?">Execução #10432</button></div>',null];

diff --git a/README.md b/README.md
@@ -53,7 +53,7 @@ Cada informação aparece **em um lugar só**: o resumo fica no Dashboard, os co
 | **Integrações / Configurações** | Conexões e preferências |
 
 ### 1. Dashboard (visão geral)
-- Indicadores do período (7, 30 ou 90 dias): **execuções**, **sucessos**, **falhas** e **duração média por plataforma**.
+- Mostra sempre os **últimos 7 dias**, calculados a partir das execuções: **execuções** (com a variação em relação aos 7 dias anteriores), **sucessos**, **falhas** e **duração média por plataforma**. O filtro de período fica em **Análises**.
 - **Duração média por plataforma:** o card mostra em destaque a média de **API**, **Mobile** e **Web**, cada uma com uma barra comparativa e o número de execuções.
   - **Cada plataforma tem a sua própria média**, que não é derivada do total: soma das durações das execuções concluídas daquela plataforma no período ÷ nº de execuções dela.
   - Passar o mouse mostra a conta (por exemplo `5.628s ÷ 20 execuções`).
@@ -118,12 +118,12 @@ Cada informação aparece **em um lugar só**: o resumo fica no Dashboard, os co
 ![Cenários do Jira](docs/img/cenarios.png)
 
 ### 6. Análises
-O período (7, 30 ou 90 dias) fica no topo e vale para as três abas.
+O **filtro de período** (7, 15, 30 ou 90 dias) fica no topo e vale para as três abas. O intervalo de datas aparece logo abaixo do título. Tudo é **recalculado a partir das execuções do período**, e cada indicador é comparado com o período anterior de mesmo tamanho (por exemplo, 30 dias contra os 30 dias antes deles).
 
 **Qualidade:** o que aconteceu no período.
-- Indicadores: taxa de sucesso, total de falhas, testes instáveis e MTTR.
-- Sucessos e falhas por dia e evolução da taxa de sucesso.
-- Falhas por causa raiz e **mapa de calor de falhas por dia e horário**.
+- Indicadores: execuções, taxa de sucesso, execuções com falha e **MTTR** (tempo médio entre uma falha e a próxima execução com sucesso do mesmo componente).
+- Sucessos e falhas **por dia**, ou **por semana** no filtro de 90 dias, e a evolução da taxa de sucesso.
+- Falhas por causa raiz, agrupadas pela mensagem de erro, e **mapa de calor de falhas por dia da semana e horário**, com o pico destacado.
 
 ![Análises — Qualidade](docs/img/analises.png)
 
@@ -145,7 +145,7 @@ O período (7, 30 ou 90 dias) fica no topo e vale para as três abas.
 **Estabilidade:** onde e o que falha.
 - **Falhas por componente**, só com quem falhou, e a contagem de quem não falhou.
 - **Abaixo da meta de sucesso**: os componentes abaixo da meta definida em Configurações.
-- **Testes instáveis (flaky)**, com a taxa de falha intermitente e o atalho para a análise da IA.
+- **Testes instáveis (flaky):** cenários que falharam e também passaram no período, com falhas / execuções, taxa de falha e o atalho para a análise da IA.
 
 ### 7. Agente de QA (chat)
 - Chat em tela cheia, que é o mesmo do painel do dashboard, com sugestões de perguntas.
@@ -570,7 +570,7 @@ es.addEventListener('scenario', e => console.log(JSON.parse(e.data)));
 
 ## Dados, persistência e limitações do MVP
 
-- Sem servidor, a plataforma usa **dados de exemplo**: 13 componentes em 4 pastas, cerca de 50 execuções e cenários `CT-001…`.
+- Sem servidor, a plataforma usa **dados de exemplo**: 13 componentes em 4 pastas, cerca de 7.600 execuções distribuídas em 6 meses (para o filtro de período e a comparação com o período anterior funcionarem) e cenários `CT-001…`.
 - Pipelines, cenários, integrações e configurações criados na interface ficam no **`localStorage` do navegador**. Eles não são compartilhados entre pessoas ou máquinas. *Configurações → Dados → Restaurar dados de exemplo* limpa tudo.
 - No modo conectado, as execuções reais aparecem em **Execuções** (Histórico e Ao vivo), no **Detalhe**, nas **Últimas execuções** e em **Análises › Tempo de execução**, e os cenários vêm do **Jira**. O histórico de longo prazo e os indicadores de **Análises** ainda vêm dos dados de exemplo, até que exista um banco (veja o roadmap).
 - O **agente de IA** responde por regras. As **Configurações → IA e Prompts** já guardam provedor, modelo, prompt e temperatura para a integração real.
